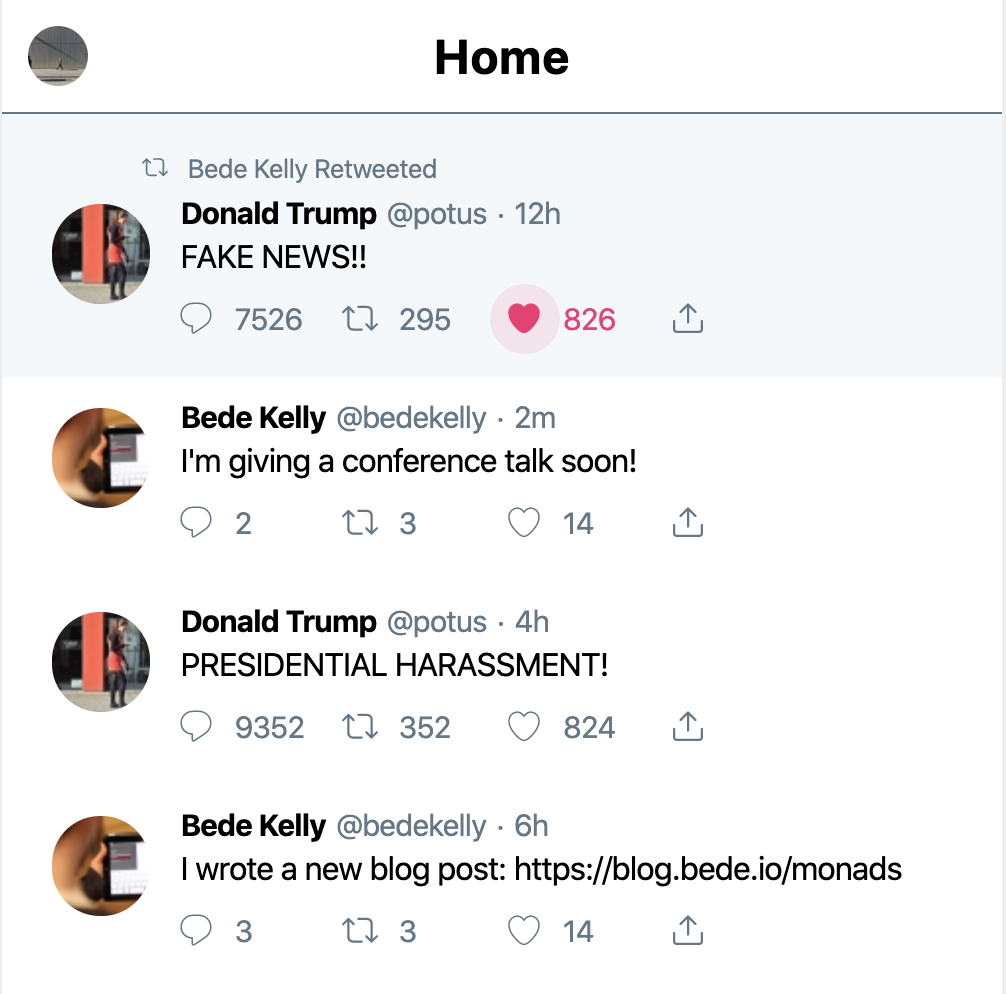
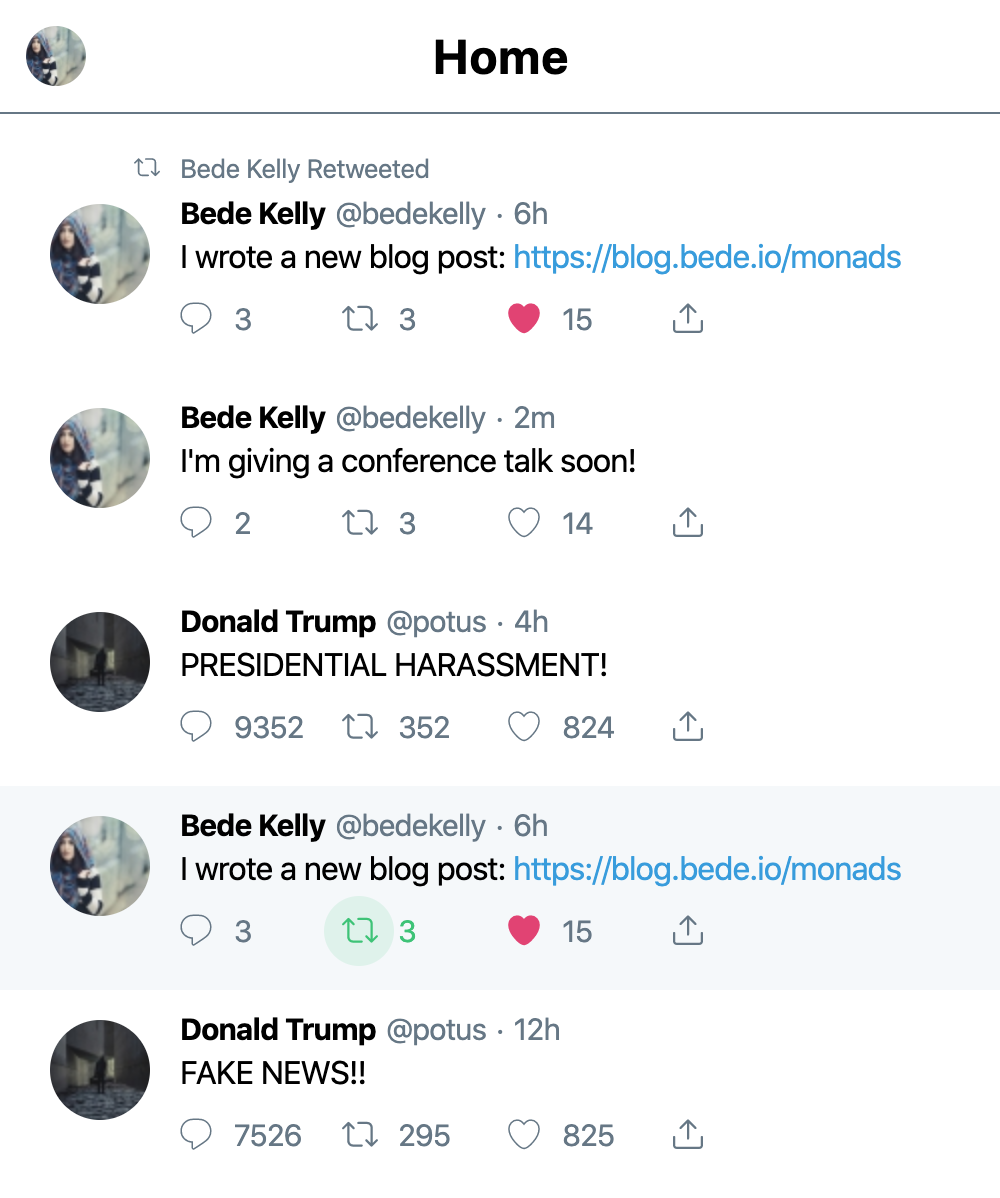
Tweak screenshot and pictures

diff --git a/src/tweetData.js b/src/tweetData.js
@@ -1,6 +1,6 @@
 export default [
   {
-    image: "https://placeimg.com/50/50/any",
+    image: "https://placeimg.com/50/50/person",
     authorName: "Bede Kelly",
     authorHandle: "@bedekelly",
     time: "2m",
@@ -26,7 +26,7 @@ export default [
     id: '2'
   },
   {
-    image: "https://placeimg.com/50/50/any",
+    image: "https://placeimg.com/50/50/person",
     authorName: "Bede Kelly",
     authorHandle: "@bedekelly",
     time: "6h",
@@ -52,7 +52,7 @@ export default [
     id: '4'
   },
   {
-    image: "https://placeimg.com/50/50/any",
+    image: "https://placeimg.com/50/50/person",
     authorName: "Bede Kelly",
     authorHandle: "@bedekelly",
     time: "2m",
@@ -78,7 +78,7 @@ export default [
     id: '6'
   },
   {
-    image: "https://placeimg.com/50/50/any",
+    image: "https://placeimg.com/50/50/person",
     authorName: "Bede Kelly",
     authorHandle: "@bedekelly",
     time: "6h",
